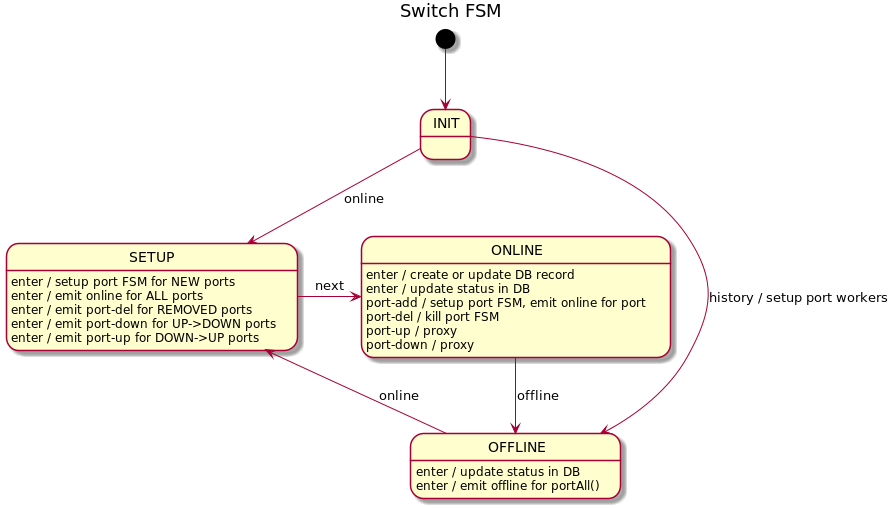
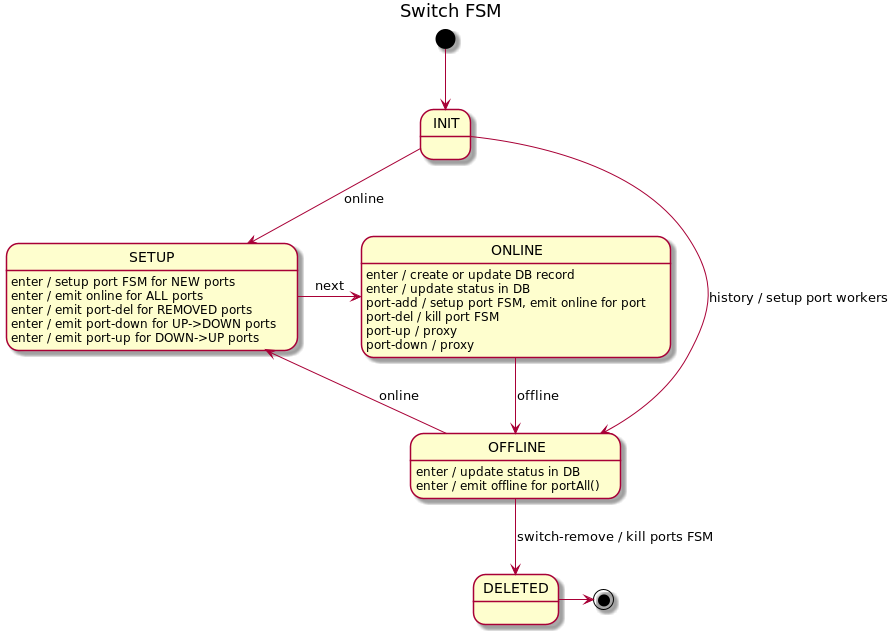
Switch delete for new network topology and tests

diff --git a/services/wfm/src/main/java/org/openkilda/wfm/topology/discovery/storm/bolt/speaker/SpeakerRouter.java b/services/wfm/src/main/java/org/openkilda/wfm/topology/discovery/storm/bolt/speaker/SpeakerRouter.java
@@ -21,6 +21,7 @@ import org.openkilda.messaging.info.InfoData;
 import org.openkilda.messaging.info.InfoMessage;
 import org.openkilda.messaging.info.discovery.DiscoPacketSendingConfirmation;
 import org.openkilda.messaging.info.event.DeactivateIslInfoData;
+import org.openkilda.messaging.info.event.DeactivateSwitchInfoData;
 import org.openkilda.messaging.info.event.IslBfdFlagUpdated;
 import org.openkilda.messaging.info.event.IslInfoData;
 import org.openkilda.messaging.info.event.PortInfoData;
@@ -40,6 +41,7 @@ import org.openkilda.wfm.topology.discovery.storm.bolt.speaker.command.SpeakerWo
 import org.openkilda.wfm.topology.discovery.storm.bolt.sw.command.SwitchCommand;
 import org.openkilda.wfm.topology.discovery.storm.bolt.sw.command.SwitchEventCommand;
 import org.openkilda.wfm.topology.discovery.storm.bolt.sw.command.SwitchPortEventCommand;
+import org.openkilda.wfm.topology.discovery.storm.bolt.sw.command.SwitchRemoveEventCommand;
 import org.openkilda.wfm.topology.discovery.storm.bolt.sw.command.SwitchUnmanagedEventCommand;
 import org.openkilda.wfm.topology.discovery.storm.bolt.watcher.command.WatcherCommand;
 import org.openkilda.wfm.topology.discovery.storm.bolt.watcher.command.WatcherSpeakerDiscoveryCommand;
@@ -115,6 +117,9 @@ public class SpeakerRouter extends AbstractBolt {
         } else if (payload instanceof UnmanagedSwitchNotification) {
             emit(input, makeDefaultTuple(
                     input, new SwitchUnmanagedEventCommand((UnmanagedSwitchNotification) payload)));
+        } else if (payload instanceof DeactivateSwitchInfoData) {
+            emit(input, makeDefaultTuple(
+                    input, new SwitchRemoveEventCommand((DeactivateSwitchInfoData) payload)));
         } else if (payload instanceof BfdSessionResponse) {
             emit(STREAM_WORKER_ID, input, makeWorkerTuple(new SpeakerBfdSessionResponseCommand(
                     input.getStringByField(FIELD_ID_KEY), (BfdSessionResponse) payload)));

diff --git a/services/wfm/src/main/java/org/openkilda/wfm/topology/discovery/controller/SwitchFsm.java b/services/wfm/src/main/java/org/openkilda/wfm/topology/discovery/controller/SwitchFsm.java
@@ -94,6 +94,8 @@ public final class SwitchFsm extends AbstractStateMachine<SwitchFsm, SwitchFsm.S
 
         // OFFLINE
         builder.transition().from(SwitchFsmState.OFFLINE).to(SwitchFsmState.SETUP).on(SwitchFsmEvent.ONLINE);
+        builder.transition().from(SwitchFsmState.OFFLINE).to(SwitchFsmState.DELETED).on(SwitchFsmEvent.SWITCH_REMOVE)
+                .callMethod("removePortsFsm");
         builder.onEntry(SwitchFsmState.OFFLINE)
                 .callMethod("offlineEnter");
     }
@@ -224,6 +226,19 @@ public final class SwitchFsm extends AbstractStateMachine<SwitchFsm, SwitchFsm.S
         updatePortLinkMode(context, port);
     }
 
+    /**
+     * Removed ports FSM on SWITCH_REMOVE event.
+     */
+    public void removePortsFsm(SwitchFsmState from, SwitchFsmState to, SwitchFsmEvent event,
+                                             SwitchFsmContext context) {
+        Set<Integer> ports = new HashSet<>(portByNumber.keySet());
+        for (Integer port: ports) {
+            SwitchFsmContext portContext = context.toBuilder().portNumber(port).build();
+            portDel(portContext, portContext.getPortNumber());
+        }
+    }
+
+
     // -- private/service methods --
 
     private void portAdd(SwitchFsmContext context, PortFacts portFacts) {
@@ -322,7 +337,7 @@ public final class SwitchFsm extends AbstractStateMachine<SwitchFsm, SwitchFsm.S
     }
 
     @Value
-    @Builder
+    @Builder(toBuilder = true)
     public static class SwitchFsmContext {
         private final ISwitchCarrier output;
 
@@ -344,13 +359,14 @@ public final class SwitchFsm extends AbstractStateMachine<SwitchFsm, SwitchFsm.S
         ONLINE,
         OFFLINE,
 
-        PORT_ADD, PORT_DEL, PORT_UP, PORT_DOWN
+        PORT_ADD, PORT_DEL, PORT_UP, SWITCH_REMOVE, PORT_DOWN
     }
 
     public enum SwitchFsmState {
         INIT,
         OFFLINE,
         ONLINE,
-        SETUP
+        SETUP,
+        DELETED
     }
 }

diff --git a/services/wfm/src/main/java/org/openkilda/wfm/topology/nbworker/bolts/SwitchOperationsBolt.java b/services/wfm/src/main/java/org/openkilda/wfm/topology/nbworker/bolts/SwitchOperationsBolt.java
@@ -19,6 +19,7 @@ import org.openkilda.messaging.command.flow.FlowRerouteRequest;
 import org.openkilda.messaging.error.ErrorType;
 import org.openkilda.messaging.error.MessageException;
 import org.openkilda.messaging.info.InfoData;
+import org.openkilda.messaging.info.event.DeactivateSwitchInfoData;
 import org.openkilda.messaging.info.event.SwitchInfoData;
 import org.openkilda.messaging.nbtopology.request.BaseRequest;
 import org.openkilda.messaging.nbtopology.request.DeleteSwitchRequest;
@@ -146,6 +147,11 @@ public class SwitchOperationsBolt extends PersistenceOperationsBolt {
             }
         });
 
+        if (deleted) {
+            DeactivateSwitchInfoData data = new DeactivateSwitchInfoData(switchId);
+            getOutput().emit(StreamType.DISCO.toString(), getTuple(), new Values(data, getCorrelationId()));
+        }
+
         log.info("{} deletion of switch '{}'", deleted ? "Successful" : "Unsuccessful", switchId);
         return new DeleteSwitchResponse(deleted);
     }
@@ -155,6 +161,8 @@ public class SwitchOperationsBolt extends PersistenceOperationsBolt {
         super.declareOutputFields(declarer);
         declarer.declare(new Fields("response", "correlationId"));
         declarer.declareStream(StreamType.REROUTE.toString(),
+                new Fields(MessageEncoder.FIELD_ID_PAYLOAD, MessageEncoder.FIELD_ID_CONTEXT));
+        declarer.declareStream(StreamType.DISCO.toString(),
                 new Fields(MessageEncoder.FIELD_ID_PAYLOAD, MessageEncoder.FIELD_ID_CONTEXT));
     }
 }

diff --git a/services/src/messaging/src/main/java/org/openkilda/messaging/info/event/DeactivateSwitchInfoData.java b/services/src/messaging/src/main/java/org/openkilda/messaging/info/event/DeactivateSwitchInfoData.java
@@ -1,0 +1,40 @@
+/* Copyright 2019 Telstra Open Source
+ *
+ *   Licensed under the Apache License, Version 2.0 (the "License");
+ *   you may not use this file except in compliance with the License.
+ *   You may obtain a copy of the License at
+ *
+ *       http://www.apache.org/licenses/LICENSE-2.0
+ *
+ *   Unless required by applicable law or agreed to in writing, software
+ *   distributed under the License is distributed on an "AS IS" BASIS,
+ *   WITHOUT WARRANTIES OR CONDITIONS OF ANY KIND, either express or implied.
+ *   See the License for the specific language governing permissions and
+ *   limitations under the License.
+ */
+
+package org.openkilda.messaging.info.event;
+
+import org.openkilda.messaging.info.InfoData;
+import org.openkilda.model.SwitchId;
+
+import com.fasterxml.jackson.annotation.JsonCreator;
+import com.fasterxml.jackson.annotation.JsonProperty;
+import lombok.ToString;
+import lombok.Value;
+
+@Value
+@ToString
+public class DeactivateSwitchInfoData extends InfoData {
+
+    /**
+     * Switch id.
+     */
+    @JsonProperty("switch_id")
+    private SwitchId switchId;
+
+    @JsonCreator
+    public DeactivateSwitchInfoData(@JsonProperty("switch_id") SwitchId switchId) {
+        this.switchId = switchId;
+    }
+}

diff --git a/services/wfm/src/main/java/org/openkilda/wfm/topology/discovery/storm/bolt/sw/command/SwitchRemoveEventCommand.java b/services/wfm/src/main/java/org/openkilda/wfm/topology/discovery/storm/bolt/sw/command/SwitchRemoveEventCommand.java
@@ -1,0 +1,31 @@
+/* Copyright 2019 Telstra Open Source
+ *
+ *   Licensed under the Apache License, Version 2.0 (the "License");
+ *   you may not use this file except in compliance with the License.
+ *   You may obtain a copy of the License at
+ *
+ *       http://www.apache.org/licenses/LICENSE-2.0
+ *
+ *   Unless required by applicable law or agreed to in writing, software
+ *   distributed under the License is distributed on an "AS IS" BASIS,
+ *   WITHOUT WARRANTIES OR CONDITIONS OF ANY KIND, either express or implied.
+ *   See the License for the specific language governing permissions and
+ *   limitations under the License.
+ */
+
+package org.openkilda.wfm.topology.discovery.storm.bolt.sw.command;
+
+import org.openkilda.messaging.info.event.DeactivateSwitchInfoData;
+import org.openkilda.wfm.topology.discovery.storm.bolt.sw.SwitchHandler;
+
+public class SwitchRemoveEventCommand extends SwitchCommand {
+
+    public SwitchRemoveEventCommand(DeactivateSwitchInfoData payload) {
+        super(payload.getSwitchId());
+    }
+
+    @Override
+    public void apply(SwitchHandler handler) {
+        handler.processRemoveSwitch(getDatapath());
+    }
+}

diff --git a/services/wfm/src/main/java/org/openkilda/wfm/topology/nbworker/bolts/MessageEncoder.java b/services/wfm/src/main/java/org/openkilda/wfm/topology/nbworker/bolts/MessageEncoder.java
@@ -20,6 +20,7 @@ import org.openkilda.messaging.MessageData;
 import org.openkilda.messaging.command.flow.FlowRerouteRequest;
 import org.openkilda.messaging.error.ErrorData;
 import org.openkilda.messaging.info.event.DeactivateIslInfoData;
+import org.openkilda.messaging.info.event.DeactivateSwitchInfoData;
 import org.openkilda.wfm.error.AbstractException;
 import org.openkilda.wfm.share.bolt.KafkaEncoder;
 import org.openkilda.wfm.topology.nbworker.StreamType;
@@ -39,7 +40,7 @@ public class MessageEncoder extends KafkaEncoder {
 
             if (payload instanceof FlowRerouteRequest) {
                 getOutput().emit(StreamType.REROUTE.toString(), input, new Values(message));
-            } else if (payload instanceof DeactivateIslInfoData) {
+            } else if (payload instanceof DeactivateIslInfoData || payload instanceof DeactivateSwitchInfoData) {
                 getOutput().emit(StreamType.DISCO.toString(), input, new Values(message));
             } else if (payload instanceof ErrorData) {
                 getOutput().emit(StreamType.ERROR.toString(), input, new Values(null, message));

diff --git a/services/wfm/src/main/java/org/openkilda/wfm/topology/discovery/service/DiscoverySwitchService.java b/services/wfm/src/main/java/org/openkilda/wfm/topology/discovery/service/DiscoverySwitchService.java
@@ -144,6 +144,24 @@ public class DiscoverySwitchService {
         }
     }
 
+    /**
+     * Remove isl by request.
+     */
+    public void remove(SwitchId datapath) {
+        log.debug("Switch service receive remove request for {}", datapath);
+        SwitchFsm fsm = controller.get(datapath);
+        if (fsm != null) {
+            SwitchFsmContext context = SwitchFsmContext.builder(carrier).build();
+            controllerExecutor.fire(fsm, SwitchFsmEvent.SWITCH_REMOVE, context);
+            if (fsm.getCurrentState() == SwitchFsmState.DELETED) {
+                controller.remove(datapath);
+                log.debug("Switch service removed FSM {}", datapath);
+            } else {
+                log.error("Switch service remove failed for FSM {}, state: {}", datapath, fsm.getCurrentState());
+            }
+        }
+    }
+
     // -- private --
 
     private SwitchFsm locateController(SwitchId datapath) {

diff --git a/services/wfm/src/main/java/org/openkilda/wfm/topology/discovery/storm/bolt/sw/SwitchHandler.java b/services/wfm/src/main/java/org/openkilda/wfm/topology/discovery/storm/bolt/sw/SwitchHandler.java
@@ -19,6 +19,7 @@ import org.openkilda.messaging.info.event.PortInfoData;
 import org.openkilda.messaging.info.event.SwitchInfoData;
 import org.openkilda.messaging.info.switches.UnmanagedSwitchNotification;
 import org.openkilda.model.Isl;
+import org.openkilda.model.SwitchId;
 import org.openkilda.persistence.PersistenceManager;
 import org.openkilda.wfm.AbstractBolt;
 import org.openkilda.wfm.CommandContext;
@@ -190,5 +191,9 @@ public class SwitchHandler extends AbstractBolt implements ISwitchCarrier {
 
     public void processSwitchPortEvent(PortInfoData payload) {
         service.switchPortEvent(payload);
+    }
+
+    public void processRemoveSwitch(SwitchId datapath) {
+        service.remove(datapath);
     }
 }

diff --git a/services/wfm/src/main/java/org/openkilda/wfm/topology/nbworker/NbWorkerTopology.java b/services/wfm/src/main/java/org/openkilda/wfm/topology/nbworker/NbWorkerTopology.java
@@ -133,6 +133,7 @@ public class NbWorkerTopology extends AbstractTopology<NbWorkerTopologyConfig> {
                 .shuffleGrouping(FLOWS_BOLT_NAME, StreamType.REROUTE.toString())
                 .shuffleGrouping(SWITCHES_BOLT_NAME, StreamType.ERROR.toString())
                 .shuffleGrouping(SWITCHES_BOLT_NAME, StreamType.REROUTE.toString())
+                .shuffleGrouping(SWITCHES_BOLT_NAME, StreamType.DISCO.toString())
                 .shuffleGrouping(ROUTER_BOLT_NAME, StreamType.ERROR.toString())
                 .shuffleGrouping(FEATURE_TOGGLES_BOLT_NAME, StreamType.ERROR.toString())
                 .shuffleGrouping(PATHS_BOLT_NAME, StreamType.ERROR.toString());
